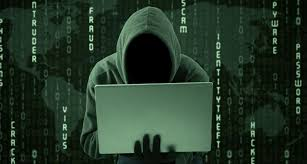
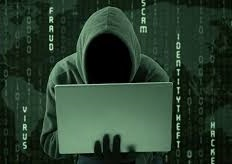
edese

diff --git a/css/creative.min.css b/css/creative.min.css
@@ -9,5 +9,5 @@
 #ad{border1: 2px solid; height: 290px; width: 650px; float: left; margin-left: 3px;color:#fff}
 #centro{border1: 1px solid; height: 370px; width: 35px; float: left; margin-left: 6px; background-color:#f05f40!important;}
 #ae{border1: 2px solid; height: 290px; width: 642px; float: right; ;color:#fff}
-#invasao{background-image: url(../img/img5.jpg); width: 250px; height: 164px; margin-left: 16px; margin-right:16px;}
+#invasao{background-image: url(../img/img5.jpg); width: 235px; height: 164px;}
 #sistema{background-image: url(../img/imgan41.jpg); width: 240px; height: 164px; margin-left: 1px;}
